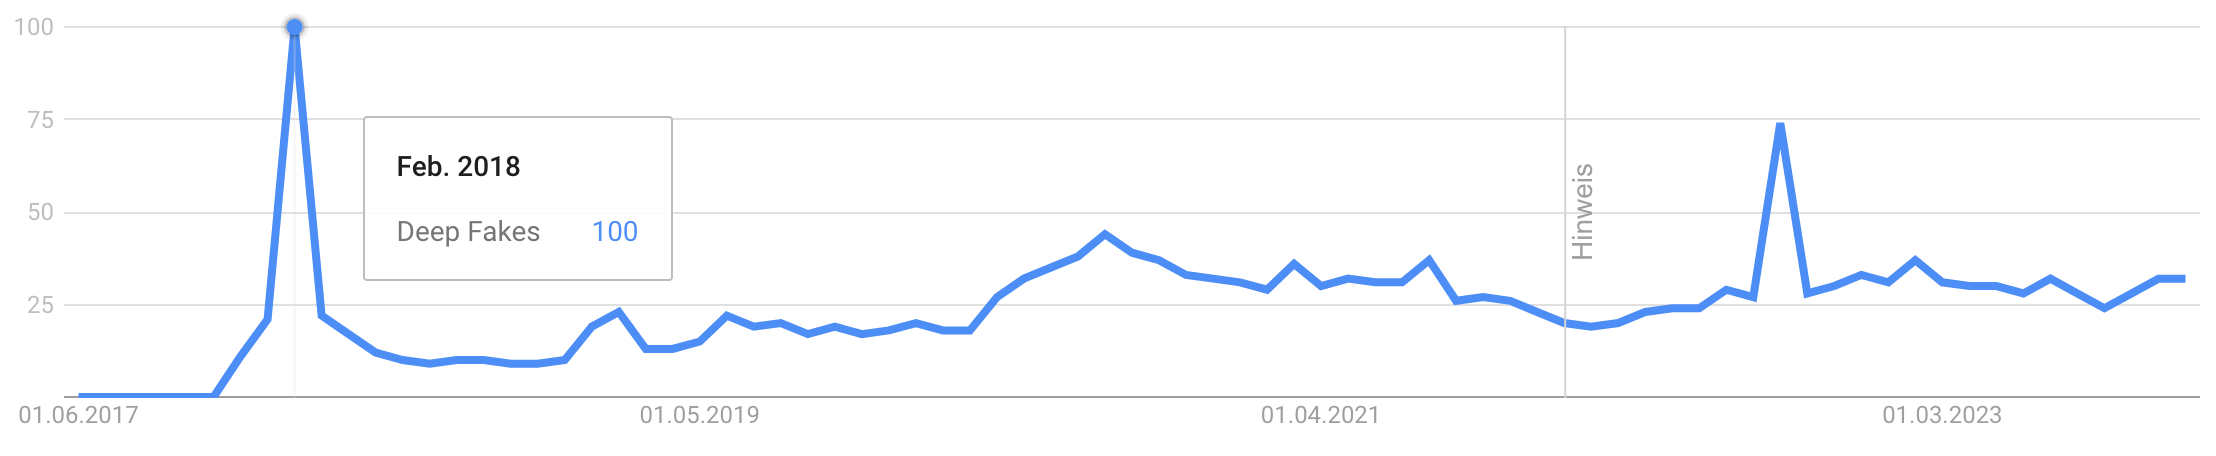
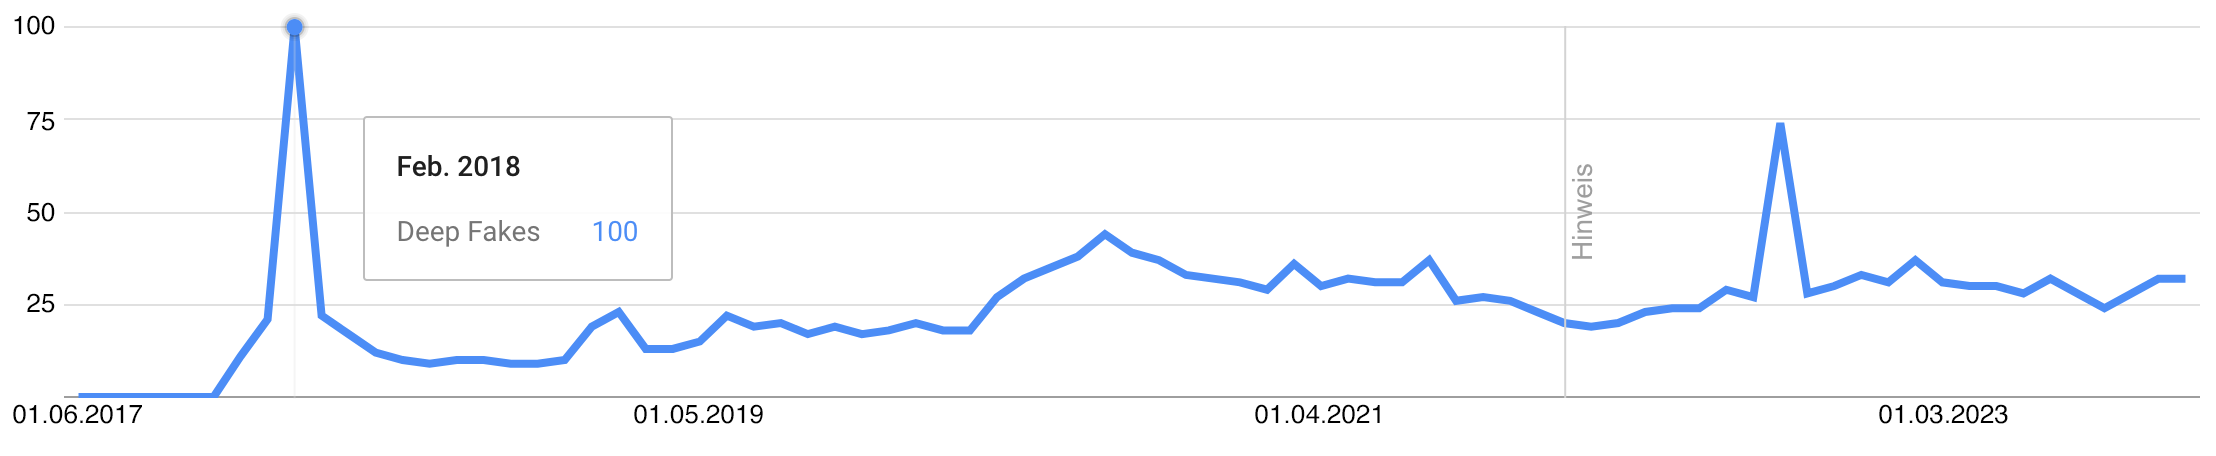
changed graphics a little

diff --git a/main.tex b/main.tex
@@ -336,7 +336,7 @@ The term \gls{genai} was briefly mentioned in the introduction, but for a better
 
 \begin{figure}[h]
   \centering
-  \includegraphics[width=0.9\textwidth]{./graphics/gtrends_genAI_1712-2312.png}
+  \includegraphics[width=1\textwidth]{./graphics/gtrends_genAI_1712-2312.png}
   \caption{Google Trends of "Generative AI" from December 2017 to December 2023 \cite{googletrendsGoogleTrendsQuery}.}
   \label{fig:gtrend-genai}
 \end{figure}
